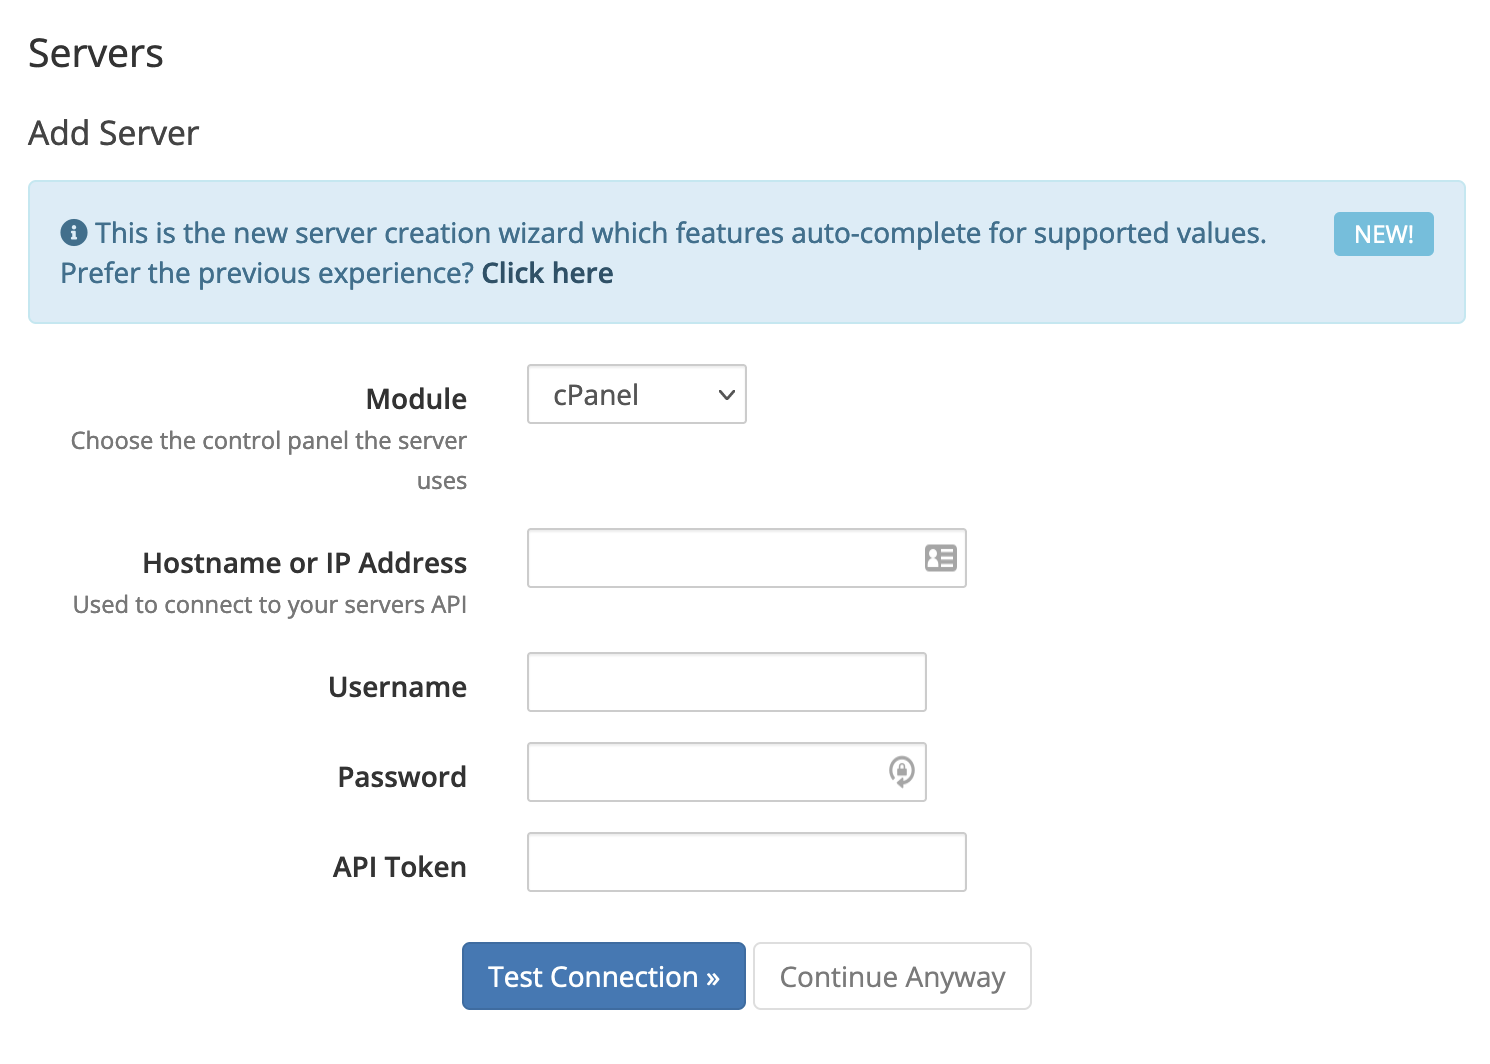
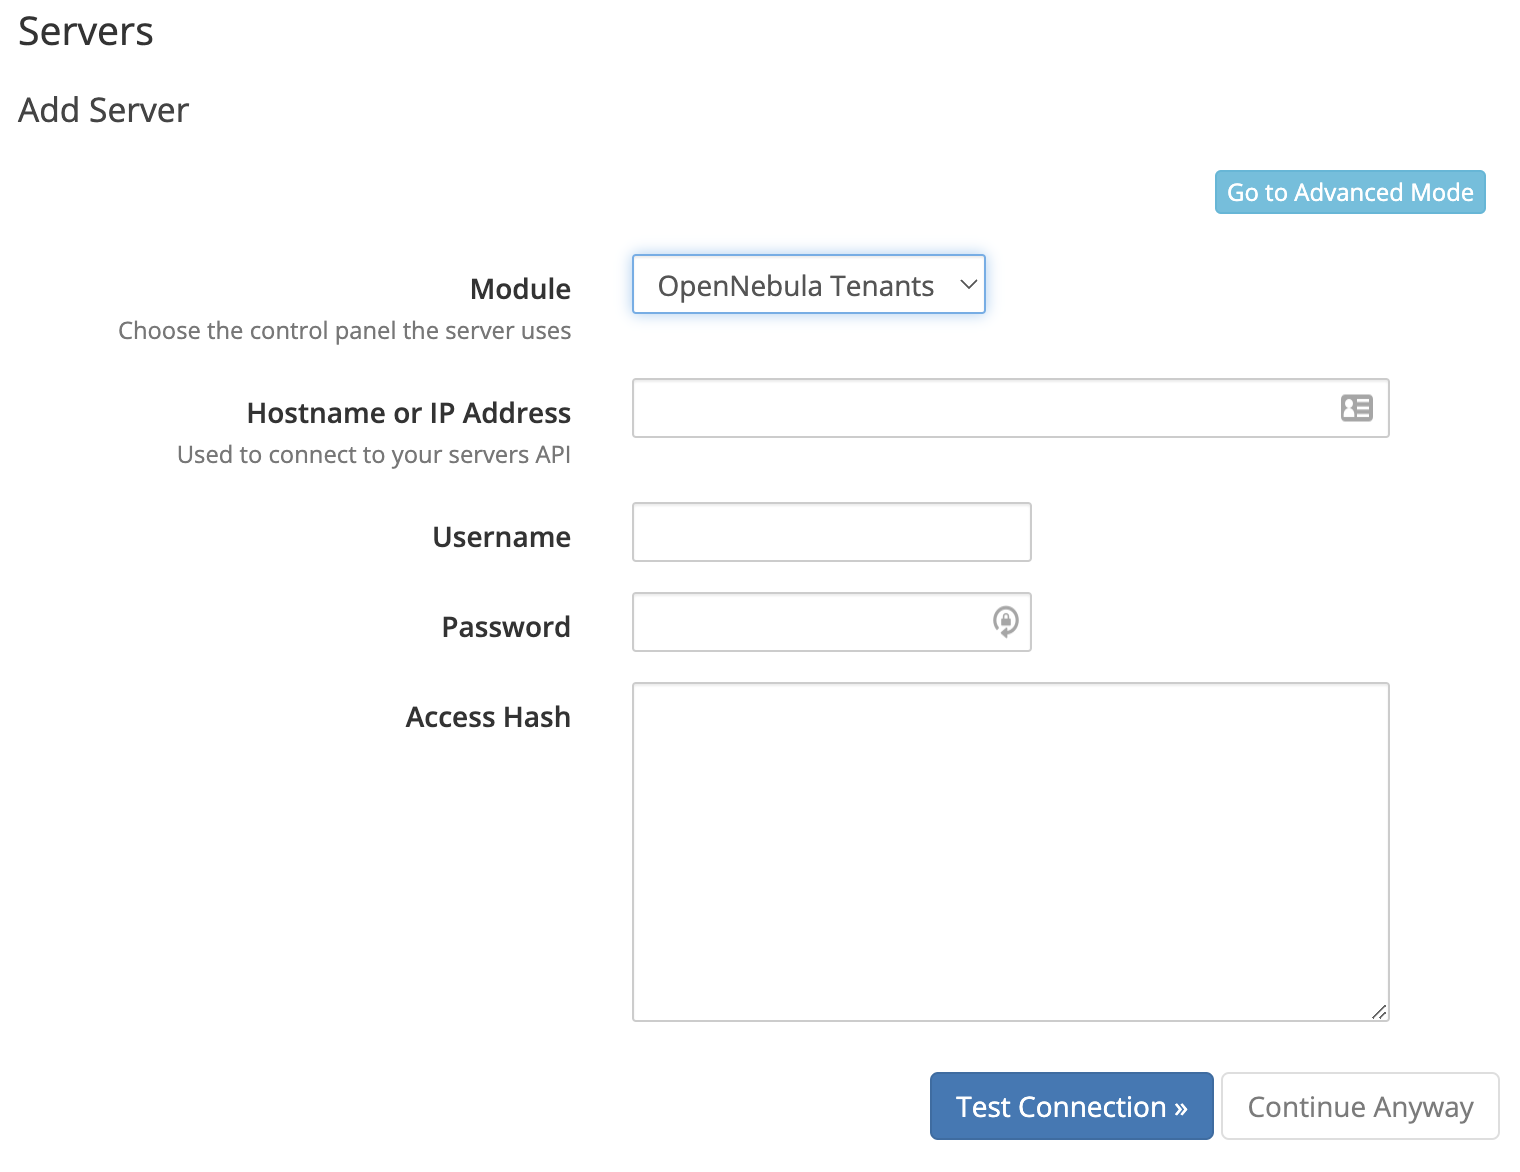
M #-: Revise WHMCS documentation - SSL and Product Upgrades

diff --git a/source/installation_and_configuration/whmcs_tenants/admin_usage.rst b/source/installation_and_configuration/whmcs_tenants/admin_usage.rst
@@ -35,7 +35,7 @@ Below the resources you can determine if the User should be automatically setup 
 
 .. note:: For more information about managing VDCs refer to the :ref:`Managing VDCs <manage_vdcs>` page.
 
-Inside of the **Upgrades** tab you can also select which packages will be available for the **Upgrade/Downgrade** action.  You will need to create more products for this list to populate.
+The **Upgrades** tab can also be a useful feature to make use of.  If you create multiple products with different resource quotas, you can select the products here which your users can upgrade to.  You can select multiple products by holding the Shift or Ctrl key.
 
 Managing Orders
 ---------------
@@ -45,9 +45,11 @@ To view the orders waiting to be accepted navigate to **Orders** -> **Pending Or
 .. image:: /images/whmcs_tenants_accept_order.png
     :align: center
 
-If your product is configured to be setup after manually accepting the order, you will need to accept the order created before any changes are made in OpenNebula.
+If your product is configured to be setup after manually accepting the order, you will need to accept the order created before any changes are made in OpenNebula. This is also true for package upgrades your users might request.
 
 Once orders are setup there is a User, Group, and ACL created corresponding to the Service in WHMCS. Then, the Quota will be created for the Group linked to this Order. On the service page for the customer, they will have a Login link.
+
+.. note:: If there are issues when upgrading products, the user and group may need to be recreated. Any existing VMs can be assigned to the admin user temporarily while this is done. This will be fixed in a future release.
 
 Checking Metrics
 ----------------

diff --git a/source/installation_and_configuration/whmcs_tenants/configure.rst b/source/installation_and_configuration/whmcs_tenants/configure.rst
@@ -31,7 +31,9 @@ To configure your WHMCS Tenants Module, first log in to your WHMCS admin area an
 .. image:: /images/whmcs_tenants_add_server.png
     :align: center
 
-Fill in a **Name** and the **Hostname** for your OpenNebula Server. Under the **Server Details** section select **OpenNebula Tenants** as the Module and fill in the **Username** and **Password** with a user in the *oneadmin* group in your OpenNebula installation.
+Fill in the **Hostname** for your OpenNebula Server. Under the **Server Details** section select **OpenNebula Tenants** as the Module and fill in the **Username** and **Password** with a user in the *oneadmin* group in your OpenNebula installation.
+
+Now click the button on top labelled **Go to Advanced Mode**.  This will open a larger form, so fill in a Name for the server and scroll down to the bottom to verify that the port and SSL settings are correct. By default, the XML-RPC traffic is not encrypted with SSL so you may need to disable that unelss you've `set up SSL for XML-RPC <https://support.opennebula.pro/hc/en-us/articles/5101146829585>`__.
 
 Once these are filled out, click the **Test Connection** button to verify the module can authenticate with your OpenNebula server.
 

diff --git a/source/installation_and_configuration/whmcs_tenants/users_guide.rst b/source/installation_and_configuration/whmcs_tenants/users_guide.rst
@@ -14,6 +14,11 @@ Order a New Service
 
 To view the available products navigate to **Services** -> **Order New Services**. This page will display all available services which can be purchased.  One can be added to the cart by clicking the corresponding **Order Now** button. After checking out, the new order will be created.
 
+Upgrade a Service
+-----------------
+
+To upgrade a product, navigate to the product's page.  On the left side there should be a button to **Upgrade Product**, which should show you a list of available packages to upgrade to. Simply add to the cart and check out much like when ordering a new service, and a new order will be created to upgrade your product.
+
 Managing Services
 -----------------
 
